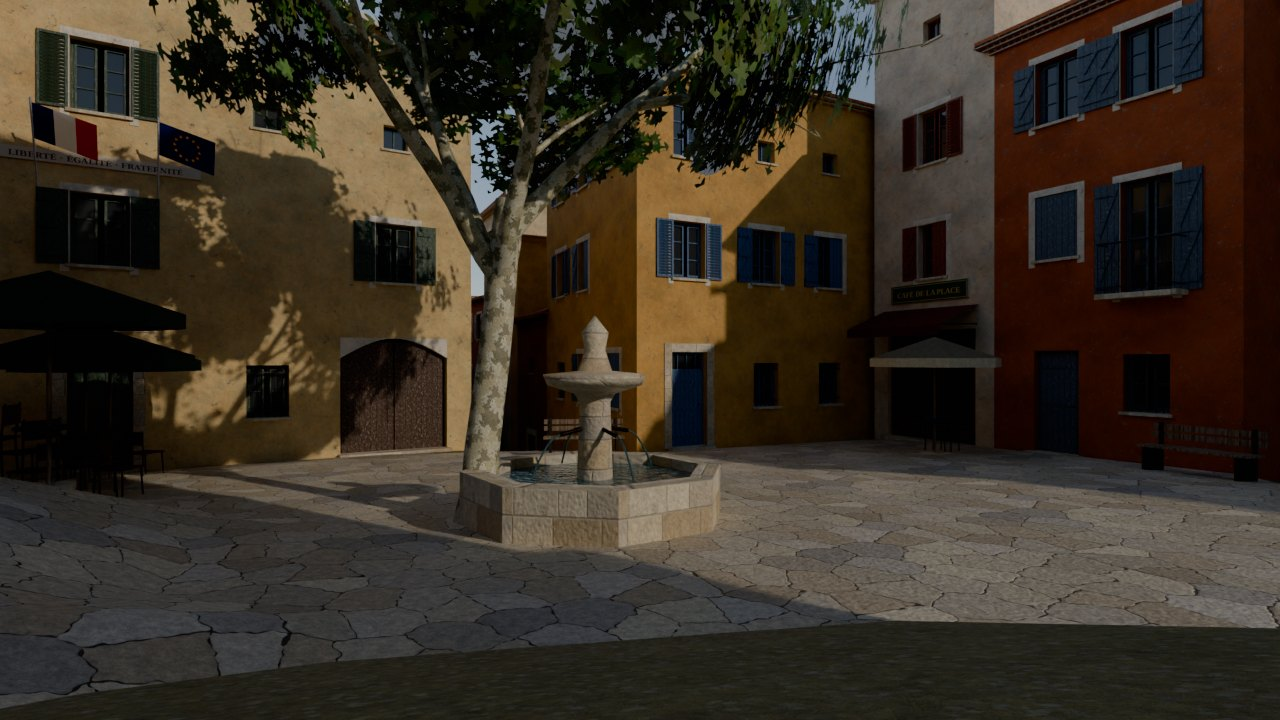
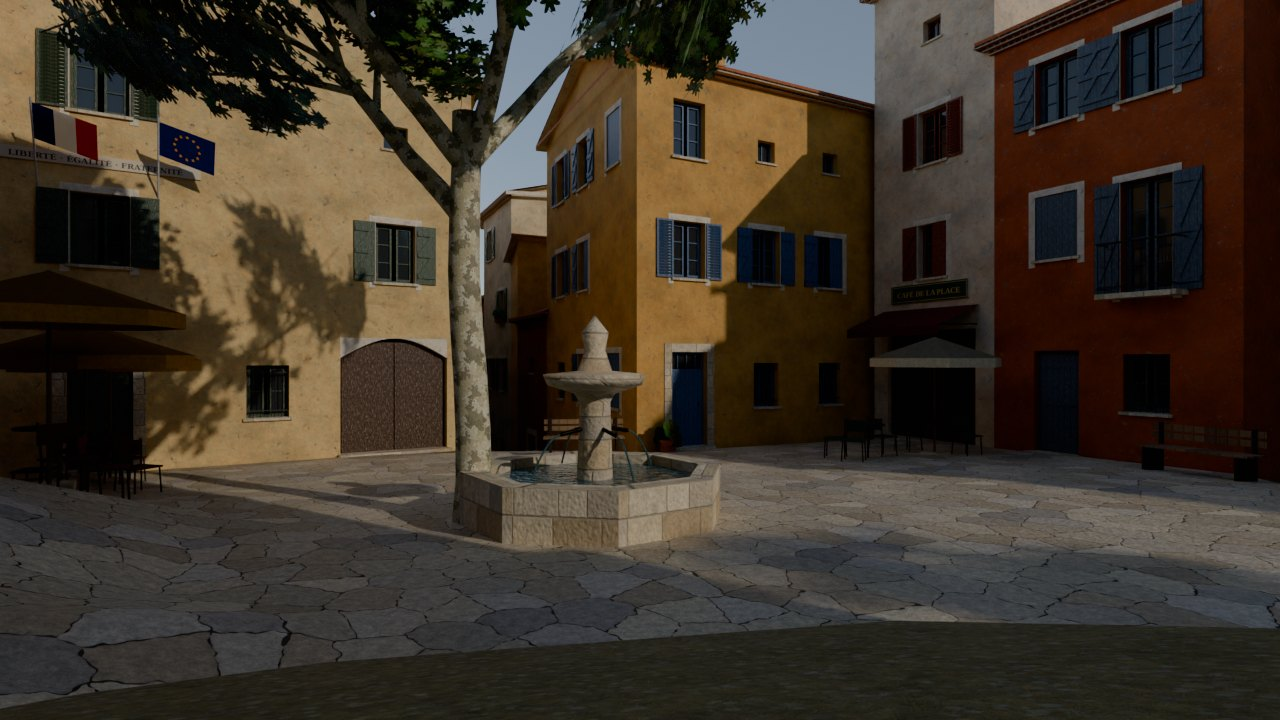
Village provençal : lavande plus violette, aperçus mis à jour
Claude-Session: https://claude.ai/code/session_01MVWCzaqNWTQZ4ZJYpCZv4k

diff --git a/Tools/VillageProvence/lav_closeup.py b/Tools/VillageProvence/lav_closeup.py
@@ -1,0 +1,172 @@
+"""Aperçu animé du vent et du passage d'un personnage : même calcul que le code HLSL du plugin (VPMaterials.cpp)."""
+import sys, os, math
+sys.path.insert(0, ".")
+import numpy as np
+import bl, bpy
+import trees
+
+FPV = len(sys.argv) > 2 and sys.argv[2] == "fps"
+OUT = "renders/closeup"
+os.makedirs(OUT, exist_ok=True)
+FPS, NF = 12, int(sys.argv[1]) if len(sys.argv) > 1 else 48
+W = dict(  # mêmes réglages que materials.WIND
+    Lavande=dict(So=1.0, On=10.0, Fr=2.0, Fl=0.0), HerbeSeche=dict(So=1.0, On=14.0, Fr=2.0, Fl=0.0),
+    HerbeVerte=dict(So=1.0, On=14.0, Fr=2.0, Fl=0.0), FeuillesGarrigue=dict(So=0.55, On=4.0, Fr=3.0, Fl=0.0),
+    FeuillesOlivier=dict(So=0.25, On=0.0, Fr=5.0, Fl=1.0), EcorceOlivier=dict(So=0.0, On=0.0, Fr=0.0, Fl=1.0))
+
+
+def sat(x):
+    return np.clip(x, 0.0, 1.0)
+
+
+def offset(P, B, H, A, R, T, F, D, p, inter):
+    """Traduction ligne à ligne du code HLSL (unités : cm)."""
+    wd = D / max(np.linalg.norm(D), 1e-3)
+    wp = np.array([-wd[1], wd[0]])
+    h = np.maximum(H, 0.0)
+    hm = h * 0.01
+    o = np.zeros_like(P)
+    gb = np.sin(B[:, :2] @ wd * 0.0008 - T * 1.1) * np.sin(B[:, :2] @ wp * 0.0005 + T * 0.23)
+    f = F * (0.8 + 0.35 * gb)
+    s = p["Fl"] * f * 1.2 * hm ** 1.5 * (0.75 + 0.25 * np.sin(T * 4.0 / np.sqrt(np.maximum(hm, 1.0)) + R * 6.2832))
+    o[:, :2] += wd[None] * s[:, None]
+    o[:, 2] -= s * s / np.maximum(2.0 * h, 1.0)
+    gp = P[:, :2] @ wd * 0.01
+    wave = 0.55 + 0.45 * np.sin(gp * 0.45 - T * 2.4 + 0.8 * np.sin(P[:, :2] @ wp * 0.004))
+    o[:, :2] += wd[None] * (p["On"] * A * f * wave)[:, None]
+    ph = P @ np.array([0.031, 0.027, 0.043]) + R * 6.2832
+    fr = p["Fr"] * A * (0.3 + f)
+    o += fr[:, None] * np.column_stack([np.sin(T * 6.3 + ph) * 0.6, np.cos(T * 5.1 + ph * 1.3) * 0.6, np.sin(T * 7.7 + ph * 0.7) * 0.8])
+    push = np.zeros_like(P)
+    for I in inter:
+        r = max(math.floor(I[3]), 1.0)
+        st = I[3] - math.floor(I[3])
+        d = P[:, :2] - I[None, :2]
+        dl = np.linalg.norm(d, axis=1)
+        fo = sat(1.0 - dl / r)
+        fo = fo * (2.0 - fo)
+        dz = P[:, 2] - I[2]
+        fo *= st * sat((dz + 80.0) / 40.0) * sat((260.0 - dz) / 60.0)
+        push[:, :2] += d / np.maximum(dl, 1.0)[:, None] * fo[:, None]
+        push[:, 2] = np.maximum(push[:, 2], fo)
+    pl = np.linalg.norm(push[:, :2], axis=1)
+    k = sat(push[:, 2]) * p["So"] * sat(h / 60.0) * (1.0 - sat((h - 170.0) / 90.0))
+    o[:, :2] += push[:, :2] / np.maximum(pl, 1e-3)[:, None] * (k * np.minimum(h, 100.0) * 0.85 * sat(pl * 4.0))[:, None]
+    o[:, 2] -= k * h * 0.4
+    return o
+
+
+bl.reset()
+bl.setup_world(sun_elev=30.0, sun_azim=235.0, exposure=-0.7)
+bl.setup_render(1280, 720, samples=48)
+bpy.context.scene.cycles.transparent_max_bounces = 64
+cat = trees.catalog()
+rng = np.random.default_rng(3)
+
+# sol : terre sèche
+g = 30
+X, Y = np.meshgrid(np.linspace(-15, 15, g), np.linspace(-8, 22, g))
+Pg = np.column_stack([X.ravel(), Y.ravel(), np.zeros(g * g)]).astype(np.float32)
+idx = np.arange(g * g).reshape(g, g)
+a, b, c, d = idx[:-1, :-1].ravel(), idx[:-1, 1:].ravel(), idx[1:, 1:].ravel(), idx[1:, :-1].ravel()
+Ig = np.concatenate([np.column_stack([a, b, c]), np.column_stack([a, c, d])]).astype(np.int32)
+Wt = np.zeros((g * g, 8), np.float32)
+Wt[:, 1] = 0.7
+Wt[:, 0] = 0.3
+bl.mesh_object("Sol", {"Terrain": dict(P=Pg, N=np.tile([0, 0, 1.0], (g * g, 1)).astype(np.float32), UV=Pg[:, :2] / 4.0,
+                                         C=np.full((g * g, 4), 255, np.uint8), I=Ig)}, terrain_weights=Wt)
+
+plants = []  # (objet, P locaux, rotation, position, alpha, aléa, matériaux par sommet)
+
+
+def place(name, pos, yaw):
+    mb, _, _ = cat[name](0)
+    arr = mb.arrays()
+    ob = bl.mesh_object(f"{name}_{len(plants)}", arr, location=pos)
+    mats = list(arr.keys())
+    P = np.concatenate([arr[m]["P"] for m in mats]).astype(np.float64)
+    A = np.concatenate([arr[m]["C"][:, 3] for m in mats]).astype(np.float64) / 255.0
+    M = np.concatenate([[m] * len(arr[m]["P"]) for m in mats])
+    cy, sy = math.cos(yaw), math.sin(yaw)
+    Rz = np.array([[cy, -sy, 0], [sy, cy, 0], [0, 0, 1.0]])
+    plants.append((ob, P, Rz, np.array(pos, float), A, rng.random(), M))
+
+
+# rangs de lavande le long de x, espacés de 1,6 m, herbes sèches entre les rangs, garrigue et un olivier au fond
+for j in range(7):
+    y = -1.5 + j * 1.6
+    for i in range(-3, 4):
+        place(f"Lavande_Rang_{(i + j) % 3}", (i * 4.0 + rng.normal(0, 0.1), y, 0.0), rng.normal(0, 0.03))
+for k in range(90):
+    place(f"Herbe_Seche_{k % 3}", (rng.uniform(-13, 13), rng.uniform(-3, 12), 0.0), rng.uniform(0, 6.28))
+for k in range(5):
+    place(f"Buisson_Garrigue_{k % 4}", (rng.uniform(-9, 9), rng.uniform(10, 13), 0.0), rng.uniform(0, 6.28))
+place("Arbre_Olivier_1", (5.5, 15.0, 0.0), 0.7)
+place("Arbre_Olivier_2", (-7.0, 17.0, 0.0), 2.1)
+
+# personnage (capsule) qui traverse les rangs en courant
+bpy.ops.mesh.primitive_cylinder_add(radius=0.3, depth=1.2, location=(0, 0, 0.9))
+body = bpy.context.object
+bpy.ops.mesh.primitive_uv_sphere_add(radius=0.14, location=(0, 0, 1.68))
+head = bpy.context.object
+mat = bpy.data.materials.new("Perso")
+mat.use_nodes = True
+mat.node_tree.nodes["Principled BSDF"].inputs["Base Color"].default_value = (0.45, 0.06, 0.04, 1)
+for o_ in (body, head):
+    o_.data.materials.append(mat)
+
+cam = bl.camera((-3.5, -6.5, 4.8), (0.2, 3.0, 0.0), lens=30.0)
+if FPV:
+    # vue à la première personne : on ne voit pas son propre corps
+    body.hide_render = head.hide_render = True
+    cam.data.lens = 19.0
+
+wind_dir = np.array([0.5, 0.866])  # mistral qui pousse vers le sud-sud-est (+y = sud dans le générateur ? ici repère local)
+path0, path1 = np.array([-1.8, -3.2]), np.array([1.6, 7.5])
+speed = 2.0
+if FPV:
+    path0, path1, speed = np.array([0.3, -4.5]), np.array([0.8, 5.5]), 1.45
+trail = []
+for fr_i in range(NF):
+    T = fr_i / FPS
+    L = np.linalg.norm(path1 - path0)
+    t = min(1.0, T * speed / L)
+    feet = np.append(path0 + (path1 - path0) * t, 0.0)
+    body.location = (feet[0], feet[1], 0.9)
+    head.location = (feet[0], feet[1], 1.68)
+    if FPV:
+        import mathutils
+        fwd = (path1 - path0) / np.linalg.norm(path1 - path0)
+        side = np.array([fwd[1], -fwd[0]])
+        step = 2 * math.pi * 1.8 * T
+        eye = np.array([*(feet[:2] + side * 0.025 * math.sin(step / 2)), 1.65 + 0.025 * math.sin(step)])
+        look = np.array([*(feet[:2] + fwd * 4.0 + side * 0.15 * math.sin(T * 0.7)), 0.25])
+        cam.location = eye.tolist()
+        cam.rotation_euler = (mathutils.Vector(look.tolist()) - mathutils.Vector(eye.tolist())).to_track_quat("-Z", "Y").to_euler()
+    if not trail or np.linalg.norm(trail[-1][0] - feet) > 0.3:
+        trail.append((feet.copy(), T))
+    trail = [(p_, t_) for p_, t_ in trail if T - t_ < 3.0][-6:]
+    R = 55.0
+    inter = [np.array([*(feet * 100), R + 0.99])]
+    for p_, t_ in trail:
+        st = 0.9 * math.exp(-(T - t_) / 1.2)
+        if st >= 0.08 and np.linalg.norm(p_[:2] - feet[:2]) * 100 >= R * 0.5:
+            inter.append(np.array([*(p_ * 100), math.floor(R * 0.9) + min(st, 0.99)]))
+    inter = inter[:16]
+    F = 0.6 * (1 + 0.6 * (0.5 + 0.5 * math.sin(T * 0.9)) - 0.3)
+    for ob, P, Rz, pos, A, rnd, M in plants:
+        Pl = P * 100.0
+        Pw_rel = Pl @ Rz.T
+        Pw = Pw_rel + pos * 100.0
+        B = np.repeat((pos * 100.0)[None], len(P), axis=0)
+        o = np.zeros_like(Pw)
+        for m in np.unique(M):
+            sel = M == m
+            o[sel] = offset(Pw[sel], B[sel], Pl[sel, 2], A[sel], rnd, T, F, wind_dir, W.get(m, W["HerbeSeche"]), inter)
+        new_local = ((Pw_rel + o) / 100.0) @ Rz
+        ob.data.vertices.foreach_set("co", new_local.astype(np.float32).ravel())
+        ob.data.update()
+    ob_loc = bpy.context.scene
+    bpy.context.scene.render.filepath = os.path.abspath(f"{OUT}/f{fr_i:03d}.png")
+    bpy.ops.render.render(write_still=True)
+    print("image", fr_i, flush=True)

diff --git a/Tools/VillageProvence/foliage_tex.py b/Tools/VillageProvence/foliage_tex.py
@@ -315,7 +315,7 @@ def spikes(at, q, rng, stem_cols, flower_cols, n=26, flower_frac=0.3):
             taper = 0.55 + 0.45 * min(1.0, k / 3.0)            # pointe plus fine
             rr = rng.uniform(3.6, 5.0) * SS * taper
             shade = 1.0 - 0.3 * (k / nw)
-            at.dc.ellipse([px_ - rr * 1.1, py_ - rr * 0.2, px_ + rr * 1.1, py_ + rr * 0.9], fill=(45, 17, 111, 255))
+            at.dc.ellipse([px_ - rr * 1.1, py_ - rr * 0.2, px_ + rr * 1.1, py_ + rr * 0.9], fill=(84, 48, 150, 255))
             # fleurettes : petits tubes violets qui dépassent de part et d'autre, teintes variées
             for f_ in range(rng.integers(4, 7)):
                 ex = px_ + rng.uniform(-1.3, 1.3) * rr
@@ -326,7 +326,7 @@ def spikes(at, q, rng, stem_cols, flower_cols, n=26, flower_frac=0.3):
                 at.dc.ellipse([ex - fr_, ey - fr_ * 1.2, ex + fr_, ey + fr_ * 0.9], fill=col)
                 at.dh.ellipse([ex - fr_, ey - fr_, ex + fr_, ey + fr_], fill=255)
                 if rng.random() < 0.18:
-                    hc = (172, 125, 238, 255) if rng.random() < 0.6 else (194, 148, 249, 255)
+                    hc = (190, 146, 246, 255) if rng.random() < 0.6 else (210, 170, 252, 255)
                     at.dc.ellipse([ex - fr_ * 0.45, ey - fr_ * 0.9, ex + fr_ * 0.35, ey - fr_ * 0.2], fill=hc)
 
 
@@ -435,7 +435,7 @@ def build():
     at = Atlas(1024)
     for q in range(4):
         # couleurs relevées sur une photo de lavande vraie en fleur (violet bleuté soutenu, reflets mauves)
-        spikes(at, q, rng, [(110, 138, 108), (100, 128, 98), (122, 147, 120)], [(76, 48, 152), (100, 66, 178), (113, 78, 190), (130, 90, 205), (88, 56, 165)],
+        spikes(at, q, rng, [(110, 138, 108), (100, 128, 98), (122, 147, 120)], [(132, 88, 206), (148, 100, 222), (120, 80, 196), (160, 112, 232), (140, 92, 214)],
                n=70, flower_frac=0.36)
     at.save("Lavande", (100, 70, 170))
     # Herbes sèches (été provençal)
